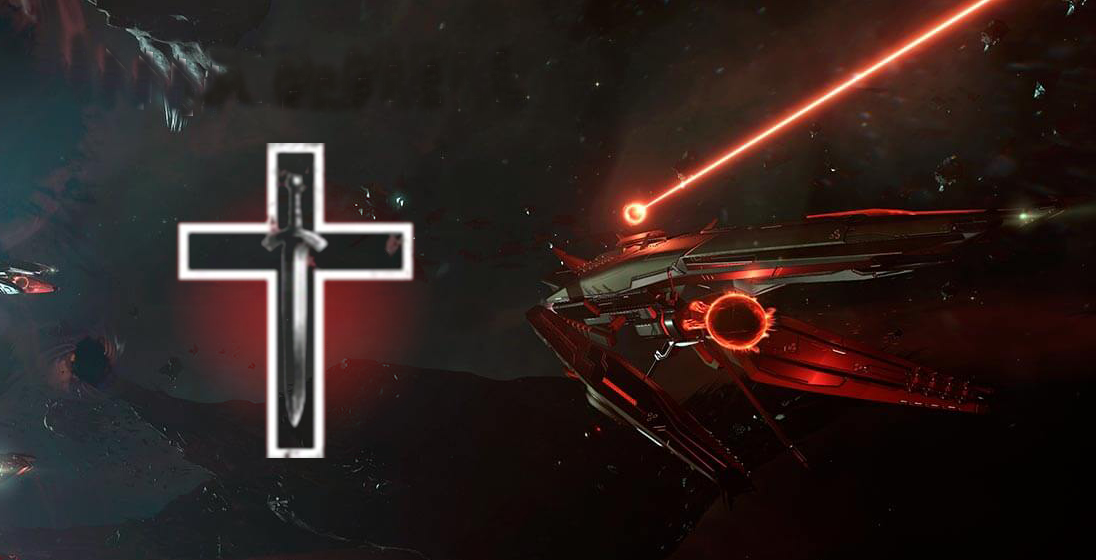
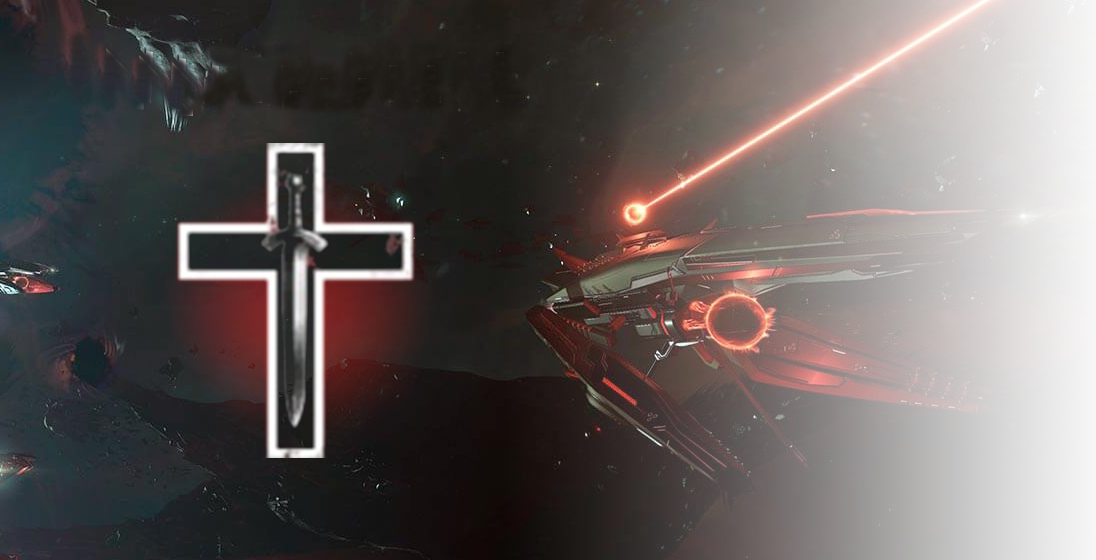
fix: correct size for inner hell welcome screen [skip ping]

diff --git a/app/renderer/beans/_beans.scss b/app/renderer/beans/_beans.scss
@@ -22,8 +22,9 @@
 
 .eve-welcome-bean.innerhell {
   background-image: url("innerhell.png");
-  background-size: 400px;
-  background-position-y: -25px;
+  background-size: 425px;
+  background-position-y: -30px;
+  background-position-x: 0px;
   opacity: 0.8;
 }
 
